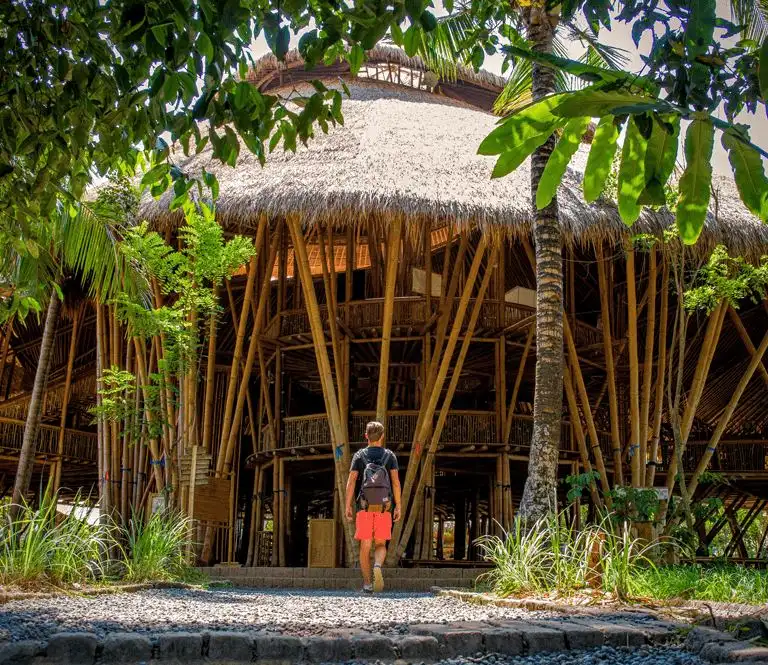
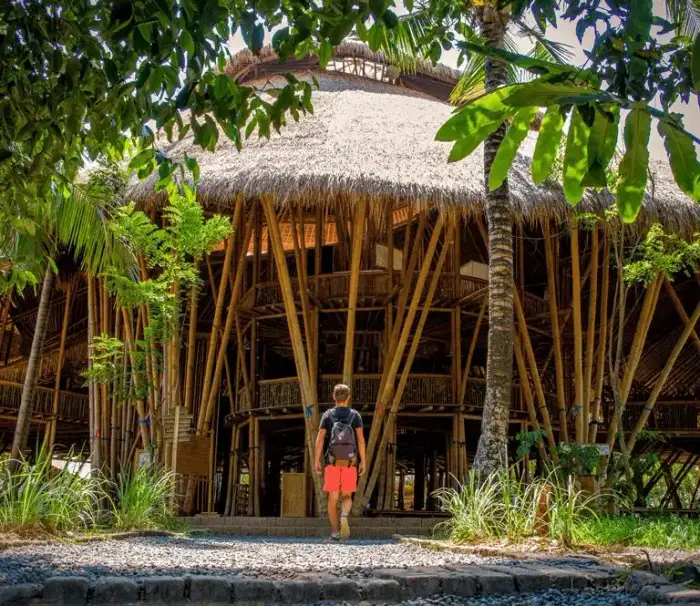
Fix Lighthouse findings: self-host fonts, unblock GA in CSP, a11y label, image weight
- Self-host DM Sans & Playfair Display via @user, removing the
  render-blocking Google Fonts stylesheet request and its third-party origins
- Add www.google.com and stats.g.doubleclick.net to CSP connect-src so GTM's
  analytics collect calls stop being blocked
- Add aria-label to the floating WhatsApp link (visible text label is
  display:none below md, leaving no accessible name on mobile)
- Resize and recompress green-school-3.webp to its actual display size
  (700x606), cutting it from 117KB to 91KB

Changed region(s): [[0.66, 0.802, 0.69, 0.8317]]

diff --git a/src/styles/global.css b/src/styles/global.css
@@ -1,6 +1,9 @@
 @import "tailwindcss";
 @import "tw-animate-css";
 @plugin "@tailwindcss/typography";
+@import "@fontsource-variable/dm-sans/wght.css";
+@import "@fontsource-variable/playfair-display/wght.css";
+@import "@fontsource-variable/playfair-display/wght-italic.css";
 
 @custom-variant dark (&:is(.dark *));
 
@@ -42,8 +45,8 @@
   --color-sidebar-border: var(--sidebar-border);
   --color-sidebar-ring: var(--sidebar-ring);
   
-  --font-sans: "DM Sans", sans-serif;
-  --font-serif: "Playfair Display", serif;
+  --font-sans: "DM Sans Variable", sans-serif;
+  --font-serif: "Playfair Display Variable", serif;
 }
 
 /* 

diff --git a/src/middleware.ts b/src/middleware.ts
@@ -34,10 +34,10 @@ export const onRequest = defineMiddleware(async (context, next) => {
     const csp =
       "default-src 'self'; " +
       `script-src 'self' 'nonce-${nonce}' ${ASTRO_RUNTIME_SCRIPT_HASHES.join(" ")} https://www.googletagmanager.com; ` +
-      "style-src 'self' 'unsafe-inline' https://fonts.googleapis.com; " +
-      "font-src 'self' https://fonts.gstatic.com; " +
+      "style-src 'self' 'unsafe-inline'; " +
+      "font-src 'self'; " +
       "img-src 'self' data: https://d2xsxph8kpxj0f.cloudfront.net https://www.google-analytics.com; " +
-      "connect-src 'self' https://*.google-analytics.com https://www.googletagmanager.com; " +
+      "connect-src 'self' https://*.google-analytics.com https://*.analytics.google.com https://www.google.com https://stats.g.doubleclick.net https://www.googletagmanager.com; " +
       "frame-ancestors 'none';";
     response.headers.set("Strict-Transport-Security", "max-age=31536000; includeSubDomains");
     response.headers.set("Content-Security-Policy", csp);

diff --git a/src/components/GreenSchool.tsx b/src/components/GreenSchool.tsx
@@ -56,8 +56,8 @@ export default function GreenSchool({ villa = 'sungai' }: GreenSchoolProps) {
             <img
               src="/images/green-school-3.webp"
               alt="Green School Architecture"
-              width={768}
-              height={665}
+              width={700}
+              height={606}
               loading="lazy"
               decoding="async"
               className="w-full h-auto object-cover hover:scale-105 transition-transform duration-700"